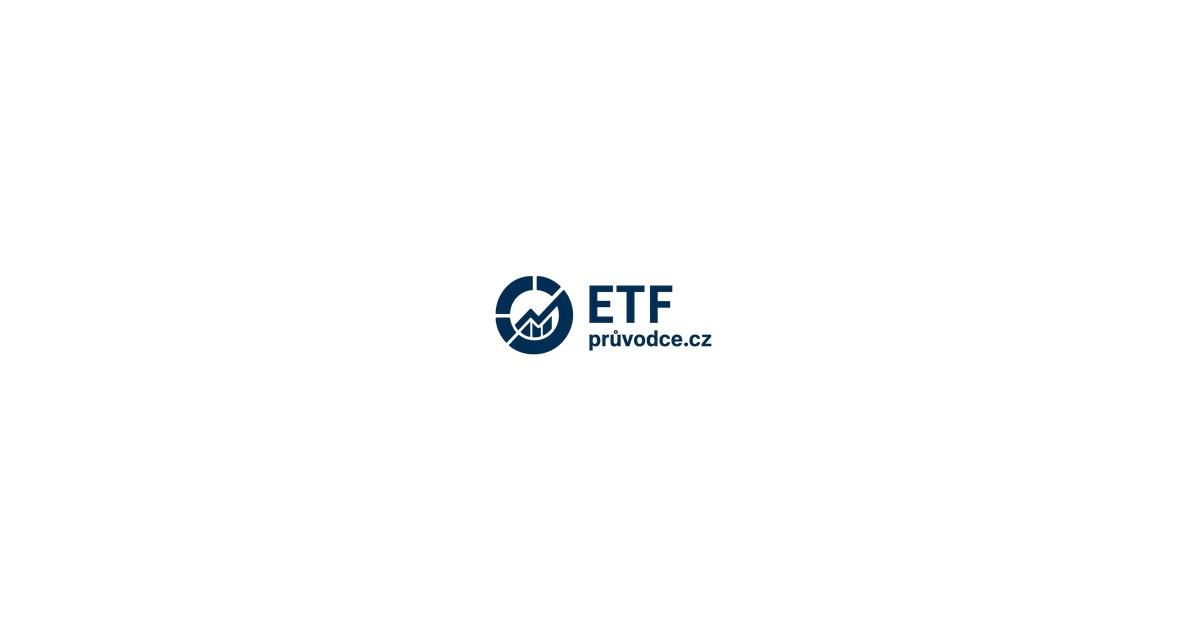
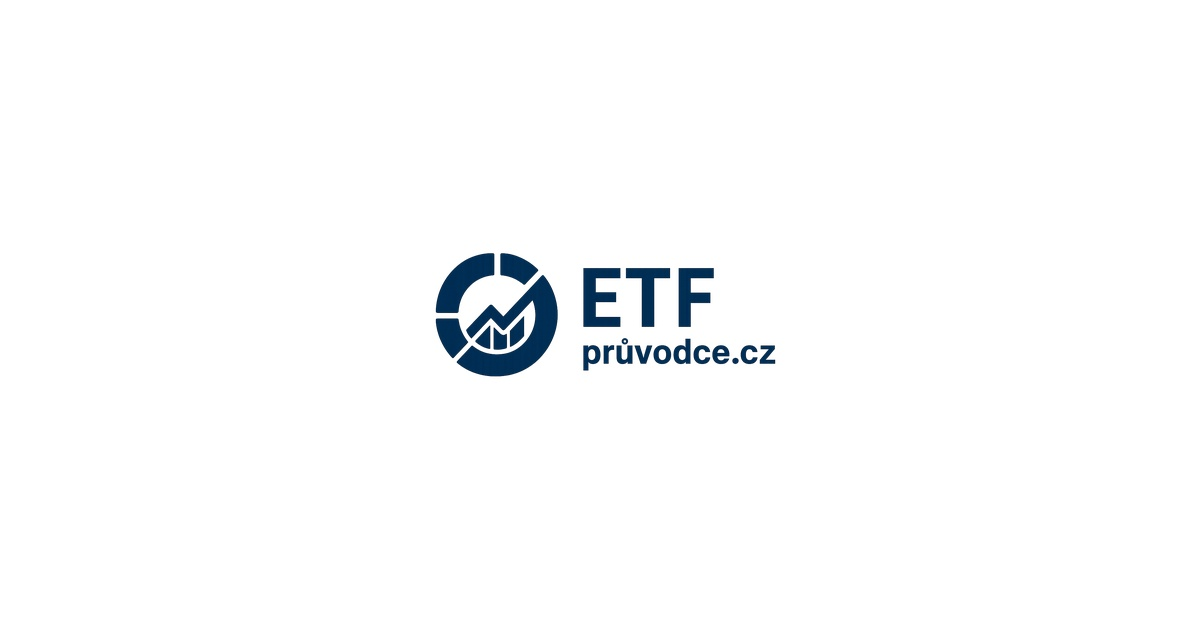
🔍 Zvětšení loga pro lepší viditelnost na sociálních sítích
- Logo zvětšeno na 50% výšky obrázku (315px)
- Lepší poměr a viditelnost při sdílení
- Aktualizován cache busting parametr na v=20250919b

🤖 Generated with [Claude Code](https://claude.ai/code)

Changed region(s): [[0.3392, 0.3921, 0.6475, 0.6032]]

diff --git a/index.html b/index.html
@@ -51,7 +51,7 @@
     <meta property="og:url" content="https://etfpruvodce.cz/" />
     <meta property="og:title" content="ETF průvodce.cz - Komplexní průvodce ETF fondy pro české investory" />
     <meta property="og:description" content="Nejlepší ETF fondy pro české investory. Srovnání, analýza a detailní informace o ETF fondech." />
-    <meta property="og:image" content="https://etfpruvodce.cz/og-image.jpg?v=20250919" />
+    <meta property="og:image" content="https://etfpruvodce.cz/og-image.jpg?v=20250919b" />
     <meta property="og:image:width" content="1200" />
     <meta property="og:image:height" content="630" />
     <meta property="og:image:type" content="image/jpeg" />
@@ -63,7 +63,7 @@
     <meta name="twitter:url" content="https://etfpruvodce.cz/" />
     <meta name="twitter:title" content="ETF průvodce.cz - Komplexní průvodce ETF fondy pro české investory" />
     <meta name="twitter:description" content="Nejlepší ETF fondy pro české investory. Srovnání, analýza a detailní informace o ETF fondech." />
-    <meta name="twitter:image" content="https://etfpruvodce.cz/og-image.jpg?v=20250919" />
+    <meta name="twitter:image" content="https://etfpruvodce.cz/og-image.jpg?v=20250919b" />
     <meta name="twitter:image:alt" content="ETF průvodce.cz logo" />
 
     <!-- Canonical URL -->
